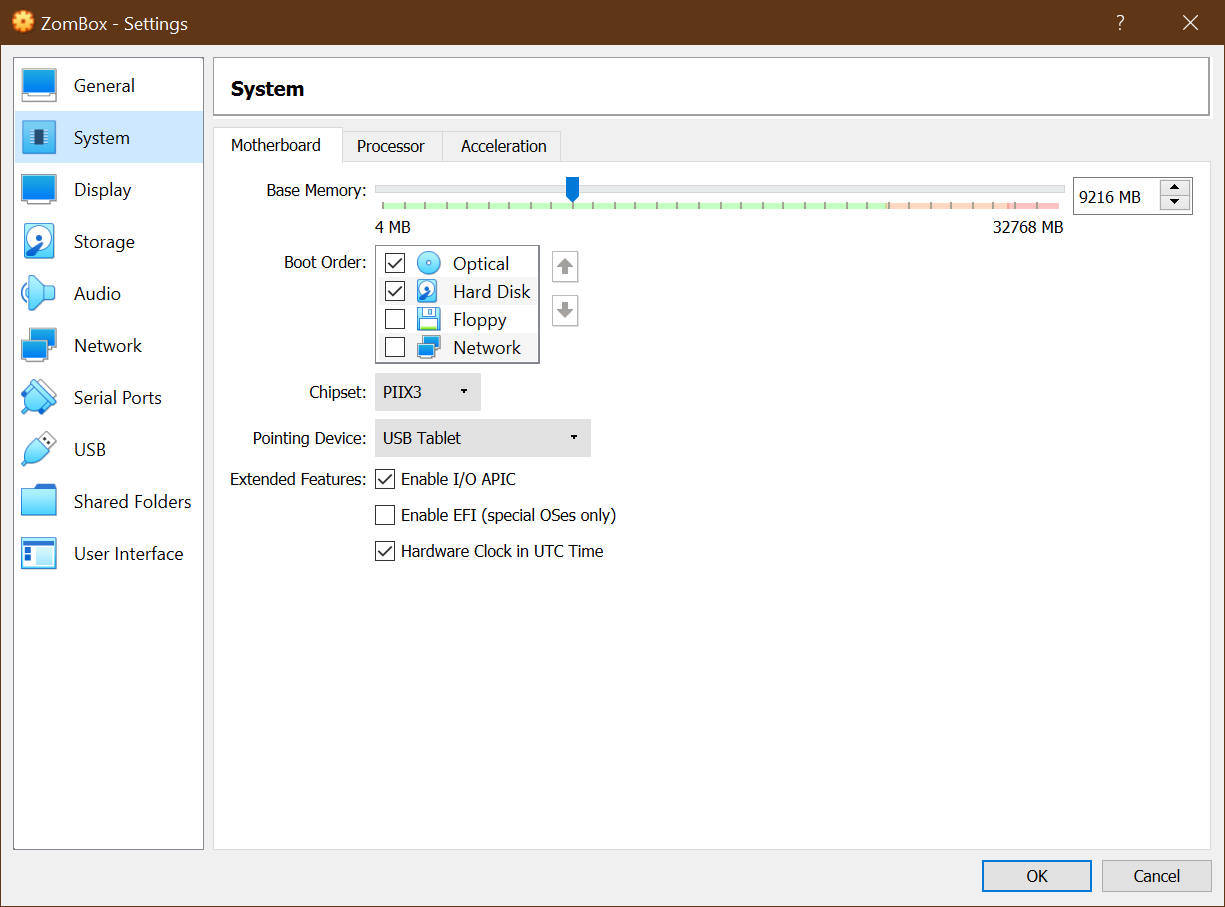
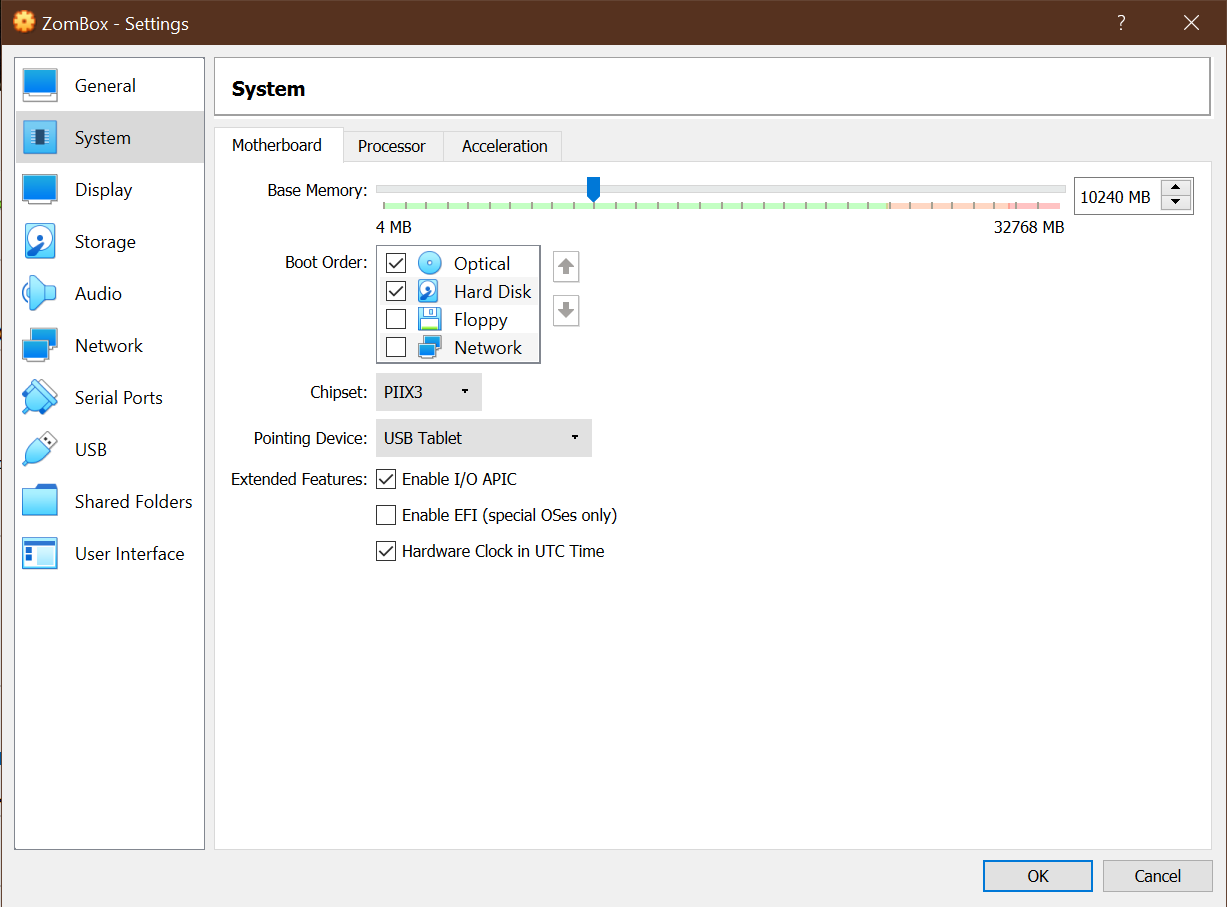
Small changes

diff --git a/client/web/src/lib/SystemInfo.svelte b/client/web/src/lib/SystemInfo.svelte
@@ -1,10 +1,11 @@
 <script>
-  import { onMount } from 'svelte';
+  import { onMount, onDestroy } from 'svelte';
   import { notifyError } from '$lib/notifications';
-  import { capitalize, humanFileSize, humanDuration } from '$lib/util';
+  import { sleep, capitalize, humanFileSize, humanDuration } from '$lib/util';
   import { baseurl, newGetRequest } from '$lib/serverjockeyapi';
   import RubiksCube from '$lib/RubiksCube.svelte';
 
+  let looping = true;
   let info = {
     version: '0.0.0',
     uptime: 0,
@@ -26,15 +27,26 @@
     }
   };
 
-  onMount(function() {
-    fetch(baseurl + '/system/info', newGetRequest())
-      .then(function(response) {
-        if (!response.ok) throw new Error('Status: ' + response.status);
-        return response.json();
-      })
-      .then(function(json) { info = json; })
-      .catch(function(error) { notifyError('Failed to load System Info.'); });
-  });
+  async function updateSystemInfo() {
+    while (looping) {
+      await fetch(baseurl + '/system/info', newGetRequest())
+        .then(function(response) {
+          if (!response.ok) throw new Error('Status: ' + response.status);
+          return response.json();
+        })
+        .then(function(json) {
+          if (looping) { info = json; }
+        })
+        .catch(function(error) {
+          looping = false;
+          notifyError('Failed to load System Info.');
+        });
+      if (looping) { await sleep(20000); }
+    }
+  };
+
+  onMount(updateSystemInfo);
+  onDestroy(function() { looping = false; });
 </script>
 
 

diff --git a/client/web/src/routes/setup/index.svelte b/client/web/src/routes/setup/index.svelte
@@ -583,7 +583,7 @@ UPnP=false</pre>
   <p>
     Select the <span class="has-text-weight-bold">System</span> section on the left panel,
     then the <span class="has-text-weight-bold">Motherboard</span> tab.
-    By default 9Gb of memory is allocated to ZomBox. This value should not be more
+    By default 10Gb of memory is allocated to ZomBox. This value should not be more
     than how much free memory your real machine has.
   </p>
   <figure><img src="/assets/setup/vb_sysmem.png" alt="ZomBox Memory" /></figure>

diff --git a/client/web/src/lib/ServerStatusStore.svelte b/client/web/src/lib/ServerStatusStore.svelte
@@ -15,9 +15,9 @@
     if (!data.uptime) return;
     let looping = true;
     while (looping) {
-      await sleep(20000);
+      await sleep(10000);
       if (id === get(serverStatus).id) {
-        data.uptime += 20000;
+        data.uptime += 10000;
         serverStatus.set(data);
       } else {
         looping = false;

diff --git a/core/system/bootstrap.py b/core/system/bootstrap.py
@@ -39,7 +39,7 @@ def _create_context(args: typing.Collection) -> contextsvc.Context:
     scheme, sslcert, sslkey = _ssl_config(home)
     secret = util.generate_token(10)
     if args.showtoken:
-        print('ServerJockey Login Token: ' + secret)
+        print('Webapp Port: ' + str(args.port) + ' Login Token: ' + secret)
     return contextsvc.Context(
         debug=args.debug, home=home, secret=secret,
         scheme=scheme, sslcert=sslcert, sslkey=sslkey, env=os.environ.copy(),

diff --git a/README.md b/README.md
@@ -76,3 +76,9 @@ can be imported into VirtualBox. Use this option on Windows systems.
 * Import the VM image file into VirtualBox.
 * Adjust the CPU and memory settings for the VM as desired.
 * Start the VM. Webapp URL and login token will be displayed in the console.
+
+
+## Docker Image
+ServerJockey is available as a Docker image.
+This is also an option for Windows systems with Docker installed.
+[Images on Docker Hub](https://hub.docker.com/r/salsevensix/serverjockey/tags)
